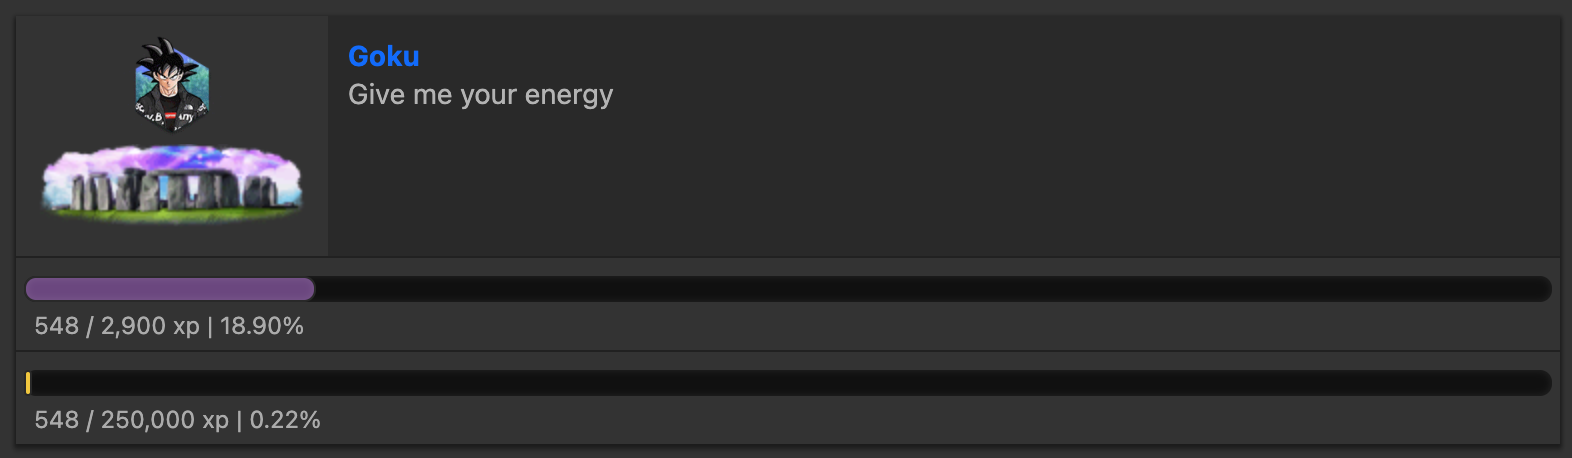
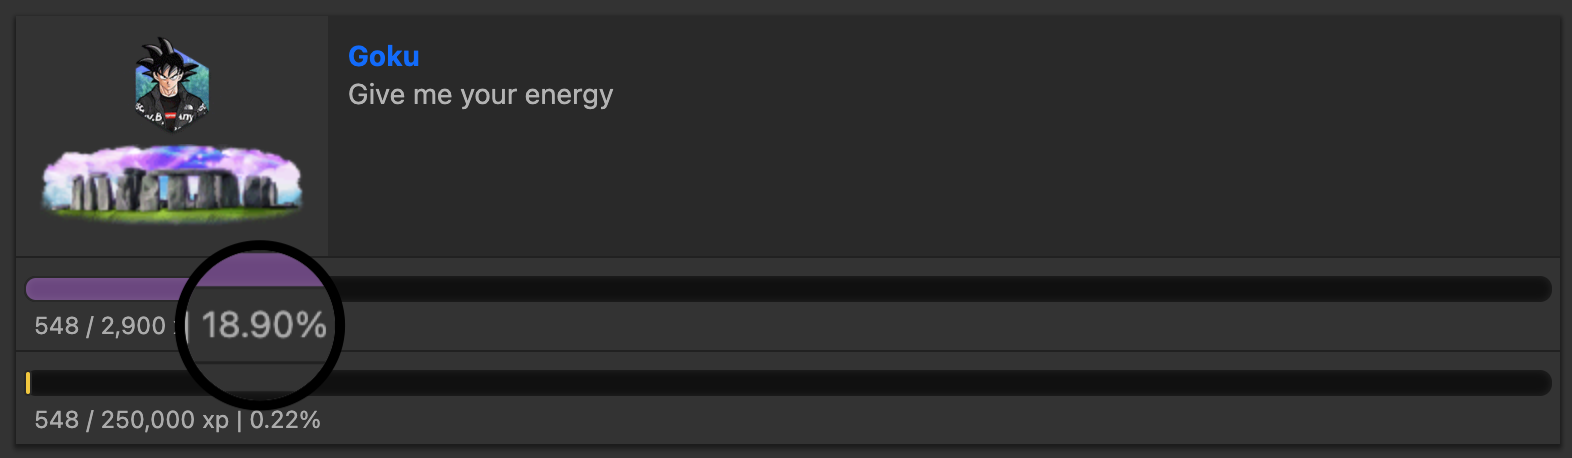
readme update

Changed region(s): [[0.0935, 0.5197, 0.2182, 0.917]]

diff --git a/README.md b/README.md
@@ -1,6 +1,30 @@
 # Hack Game Medal of Honor progress bar
  hackforums.net | Hack Game - Medal of Honor progress bar
 
+ ---
+
+# Features
+
+-	Displays your progress to the Medal of Honor award!
+-	Displays percentage until next milestone.
+
+
+ ---
+
 # Preview
 
+*Progress bar for Medal of Honor award*
+![Preview2](preview2.png?raw=true "Preview2")
+
+*Percentage until next milestone*
 ![Preview](preview.png?raw=true "Preview")
+---
+
+# Changelog
+-	Version 0.01
+	Added progress bar for Medal of Honor award.
+
+-	Version 0.02
+	Added percentage until next milestone
+
+---
